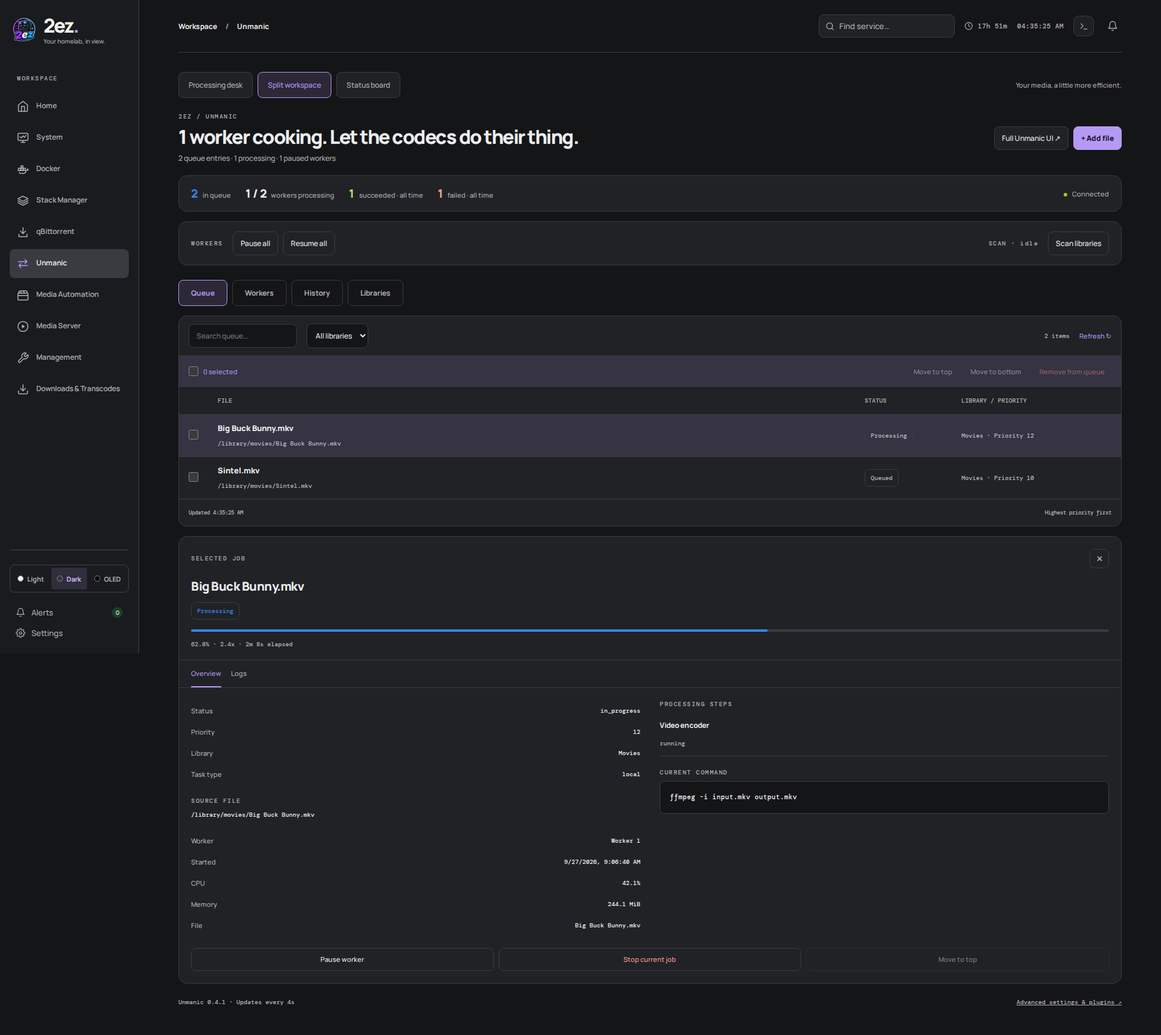
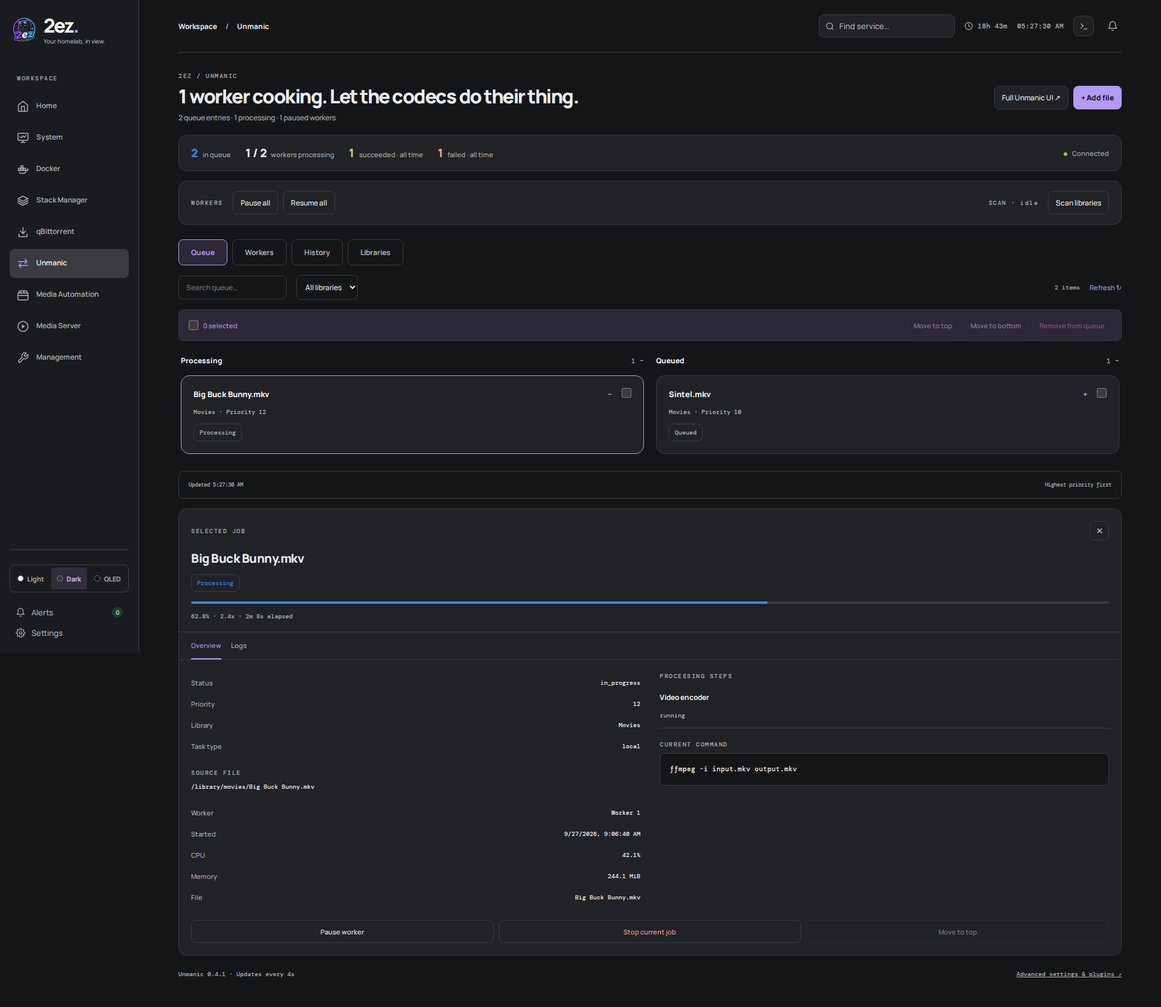
Combine Unmanic views and remove redundant downloads page

diff --git a/src/unmanic/UnmanicPage.jsx b/src/unmanic/UnmanicPage.jsx
@@ -1,18 +1,15 @@
 import { useEffect, useRef, useState } from 'react';
 import { duration } from '../qbittorrent/api';
-import { InspectorDrawer } from '../qbittorrent/TransferViews';
 import { date, encodingSpeed, filename, progress, unmanicRequest, workerState } from './api';
 import JobDetails from './JobDetails';
 import ActionDialog from './ActionDialog';
 import '../qbittorrent/qbittorrent.css';
 import './unmanic.css';
 
-const views = [['dense', 'Processing desk'], ['bottom', 'Split workspace'], ['cards', 'Status board']];
 const sections = [['queue', 'Queue'], ['workers', 'Workers'], ['history', 'History'], ['libraries', 'Libraries']];
 const pageSize = 25;
 const label = (item, kind) => kind === 'queue' ? filename(item.abspath) : kind === 'history' ? item.task_label : item.name;
 export default function UnmanicPage() {
-  const [layout, setLayout] = useState(() => { try { const saved = localStorage.getItem('2ez-unmanic-layout'); return views.some(([id]) => id === saved) ? saved : 'bottom'; } catch { return 'bottom'; } });
   const [section, setSection] = useState('queue');
   const [query, setQuery] = useState('');
   const [library, setLibrary] = useState('all');
@@ -67,10 +64,9 @@ export default function UnmanicPage() {
   const paused = workers.filter(worker => worker.paused).length;
   const headline = !snapshot ? 'Checking what’s cooking…' : active ? `${active} ${active === 1 ? 'worker' : 'workers'} cooking. Let the codecs do their thing.` : paused ? 'The workers are taking a breather.' : snapshot.queue.recordsTotal ? 'A little queue. A lot of potential.' : 'Nothing to squeeze. Even codecs need a day off.';
   function updateFilter(setter, value) { setter(value); setPage(0); setSelected([]); }
-  function switchSection(next) { setSection(next); setQuery(''); setLibrary('all'); setStatus('all'); setPage(0); setSelected([]); setInspected(null); }
-  function chooseView(next) { setLayout(next); setCollapsed({}); try { localStorage.setItem('2ez-unmanic-layout', next); } catch { /* View remains usable without storage. */ } }
+  function switchSection(next) { setSection(next); setCollapsed({}); setQuery(''); setLibrary('all'); setStatus('all'); setPage(0); setSelected([]); setInspected(null); }
   function closeDetails() { const button = [...document.querySelectorAll('[data-um-id]')].find(element => element.dataset.umId === String(inspected?.item.id)); setInspected(null); button?.focus(); }
-  function inspect(item) { if (layout === 'cards' && inspected?.item.id === item.id) closeDetails(); else setInspected({ kind: section, item }); }
+  function inspect(item) { if (inspected?.item.id === item.id) closeDetails(); else setInspected({ kind: section, item }); }
   function select(id, checked) { setSelected(previous => checked ? [...new Set([...previous, id])] : previous.filter(value => value !== id)); }
   async function mutate(endpoint, method, data, message) {
     setBusy(true); setActionError(''); setNotice('');
@@ -92,24 +88,22 @@ export default function UnmanicPage() {
     if (await mutate(endpoint, method, payload, message)) { setSelected([]); if (['removeQueue', 'removeHistory'].includes(operation.kind)) setInspected(null); }
   }
   const detailItem = inspected && (inspected.kind === 'workers' ? workers.find(item => item.id === inspected.item.id) : rows.find(item => item.id === inspected.item.id)) || inspected?.item;
-  const details = inspected && <JobDetails key={`${inspected.kind}-${inspected.item.id}`} kind={inspected.kind} item={detailItem} workers={workers} disabled={disabled || (inspected.kind === 'workers' && !workers.some(item => item.id === inspected.item.id))} onAction={action} onClose={closeDetails} layout={layout} />;
+  const details = inspected && <JobDetails key={`${inspected.kind}-${inspected.item.id}`} kind={inspected.kind} item={detailItem} workers={workers} disabled={disabled || (inspected.kind === 'workers' && !workers.some(item => item.id === inspected.item.id))} onAction={action} onClose={closeDetails} />;
   const jobState = item => section === 'workers' ? workerState(item) : section === 'history' ? item.task_success ? 'Succeeded' : 'Failed' : section === 'libraries' ? item.enable_scanner ? 'Scanning enabled' : 'Scanner disabled' : workers.some(w => w.current_task === item.id && !w.idle) ? 'Processing' : item.status === 'pending' ? 'Queued' : item.status;
   const groupNames = [...new Set(rows.map(jobState))];
-  const inCard = inspected && rows.some(item => item.id === inspected.item.id) && !collapsed[jobState(detailItem)];
-  const expandable = item => <button className="um-item-name" data-um-id={item.id} aria-expanded={inspected?.item.id === item.id} onClick={() => inspect(item)}>{label(item, section)}{layout === 'cards' && <span aria-hidden="true">{inspected?.item.id === item.id ? '−' : '+'}</span>}</button>;
+  const expandable = item => <button className="um-item-name" data-um-id={item.id} aria-expanded={inspected?.item.id === item.id} aria-controls={inspected?.item.id === item.id ? "um-selected-job" : undefined} onClick={() => inspect(item)}>{label(item, section)}<span aria-hidden="true">{inspected?.item.id === item.id ? '−' : '+'}</span></button>;
   const summary = item => section === 'queue' ? `${item.library_name || 'Unassigned library'} · Priority ${item.priority}` : section === 'history' ? `${date(item.finish_time)} · ${duration(item.finish_time - item.start_time)}` : section === 'libraries' ? item.path : item.current_file || 'No current job';
-  return <div className={`page-content qb-page um-page um-${layout}`}>
-    <div className="qb-layout-picker"><div role="group" aria-label="Unmanic layout">{views.map(([id, name]) => <button key={id} aria-pressed={layout === id} onClick={() => chooseView(id)}>{name}</button>)}</div><span>Your media, a little more efficient.</span></div>
+  return <div className="page-content qb-page um-page">
     <div className="qb-intro"><div><p className="eyebrow">2EZ / UNMANIC</p><h1>{error ? 'Lost touch with Unmanic. Trying again…' : headline}</h1><p>{snapshot ? `${snapshot.queue.recordsTotal} queue entries · ${active} processing · ${paused} paused workers` : 'Connecting to your media processor…'}</p></div><div className="qb-top-actions"><a className="qb-button" href="/unmanic/" target="_blank" rel="noreferrer">Full Unmanic UI ↗</a><button className="qb-button qb-primary" disabled={disabled} onClick={() => action('add')}>+ Add file</button></div></div>
     <div className="qb-stats"><div><strong className="qb-down">{snapshot?.queue.recordsTotal ?? '—'}</strong><span>in queue</span></div><div><strong>{active} / {workers.length}</strong><span>workers processing</span></div><div><strong className="qb-up">{snapshot?.history.successCount ?? '—'}</strong><span>succeeded · all time</span></div><div><strong className="qb-danger">{snapshot?.history.failedCount ?? '—'}</strong><span>failed · all time</span></div><span className="qb-connection"><i className={error ? 'qb-dot-error' : snapshot ? 'qb-dot-live' : ''} />{error ? 'Showing last update' : snapshot ? 'Connected' : 'Connecting'}</span></div>
     {error && <div className="qb-error" role="alert">{error} <button className="qb-text-button" onClick={() => refreshRef.current?.()}>Retry</button></div>}{actionError && !operation && <div className="qb-error" role="alert">{actionError}</div>}{notice && <div className="qb-notice" role="status">{notice}<button aria-label="Dismiss message" onClick={() => setNotice('')}>×</button></div>}
     <section className="qb-panel um-operations" aria-label="Processing controls"><div><span className="eyebrow">WORKERS</span><button className="qb-button" disabled={disabled || !workers.length || workers.every(w => w.paused)} onClick={() => mutate('workers/worker/pause/all', 'POST', {}, 'All workers paused.')}>Pause all</button><button className="qb-button" disabled={disabled || !paused} onClick={() => mutate('workers/worker/resume/all', 'POST', {}, 'All workers resumed.')}>Resume all</button></div><div><span className="eyebrow">SCAN · {scan?.state || '—'}</span>{scan?.current_library_name && <span className="um-meta">{scan.current_library_name}</span>}<button className="qb-button" disabled={disabled || !scan?.can_rescan} onClick={() => action('scan')}>Scan libraries</button>{scan?.can_pause && <button className="qb-button" disabled={disabled} onClick={() => mutate('pending/rescan/pause', 'POST', {}, 'Scan paused.')}>Pause scan</button>}{scan?.can_resume && <button className="qb-button" disabled={disabled} onClick={() => mutate('pending/rescan/resume', 'POST', {}, 'Scan resumed.')}>Resume scan</button>}{scan?.can_cancel && <button className="qb-button qb-danger" disabled={disabled} onClick={() => action('cancelScan')}>Cancel scan</button>}</div></section>
     <nav className="um-sections" aria-label="Unmanic sections">{sections.map(([id, name]) => <button key={id} className={section === id ? 'active' : ''} aria-pressed={section === id} onClick={() => switchSection(id)}>{name}</button>)}</nav>
-    <section className={`qb-panel um-list ${layout === 'cards' ? 'um-card-list' : ''}`}><div className="qb-list-head"><label className="qb-search"><input type="search" aria-label="Search Unmanic items" placeholder={`Search ${section}…`} value={query} onChange={event => updateFilter(setQuery, event.target.value)} /></label>{section === 'queue' && <select aria-label="Filter library" value={library} onChange={event => updateFilter(setLibrary, event.target.value)}><option value="all">All libraries</option>{libraries.map(item => <option key={item.id} value={item.id}>{item.name}</option>)}</select>}{section === 'history' && <select aria-label="Filter result" value={status} onChange={event => updateFilter(setStatus, event.target.value)}><option value="all">All results</option><option value="success">Succeeded</option><option value="failed">Failed</option></select>}<span>{loaded ? `${snapshot.total} items` : 'Loading…'}</span><button className="qb-text-button" onClick={() => refreshRef.current?.()}>Refresh ↻</button></div>
+    <section className="qb-panel um-list um-card-list"><div className="qb-list-head"><label className="qb-search"><input type="search" aria-label="Search Unmanic items" placeholder={`Search ${section}…`} value={query} onChange={event => updateFilter(setQuery, event.target.value)} /></label>{section === 'queue' && <select aria-label="Filter library" value={library} onChange={event => updateFilter(setLibrary, event.target.value)}><option value="all">All libraries</option>{libraries.map(item => <option key={item.id} value={item.id}>{item.name}</option>)}</select>}{section === 'history' && <select aria-label="Filter result" value={status} onChange={event => updateFilter(setStatus, event.target.value)}><option value="all">All results</option><option value="success">Succeeded</option><option value="failed">Failed</option></select>}<span>{loaded ? `${snapshot.total} items` : 'Loading…'}</span><button className="qb-text-button" onClick={() => refreshRef.current?.()}>Refresh ↻</button></div>
     {['queue', 'history'].includes(section) && <div className="qb-bulk"><label className="um-check"><input type="checkbox" aria-label="Select page" checked={rows.length > 0 && rows.every(item => selected.includes(item.id))} disabled={!rows.length} onChange={event => setSelected(event.target.checked ? rows.map(item => item.id) : [])} />{selectedItems.length} selected</label>{section === 'queue' ? <><button className="qb-button" disabled={disabled || !selectedItems.length} onClick={() => action('top', selectedItems)}>Move to top</button><button className="qb-button" disabled={disabled || !selectedItems.length} onClick={() => action('bottom', selectedItems)}>Move to bottom</button></> : <button className="qb-button" disabled={disabled || !selectedItems.length} onClick={() => action('reprocess', selectedItems)}>Reprocess</button>}<button className="qb-button qb-danger" disabled={disabled || !selectedItems.length} onClick={() => action(section === 'queue' ? 'removeQueue' : 'removeHistory', selectedItems)}>Remove {section === 'queue' ? 'from queue' : 'records'}</button></div>}
-    {!loaded ? <p className="qb-empty">{error ? 'Waiting to reconnect…' : 'Loading Unmanic…'}</p> : !rows.length ? <p className="qb-empty">{query || library !== 'all' || status !== 'all' ? 'No items match these filters.' : section === 'queue' ? 'The queue is clear. Add a file or scan your libraries.' : section === 'history' ? 'No completed jobs yet.' : section === 'workers' ? 'No workers configured. Open Unmanic settings to add workers.' : 'No libraries configured. Open Unmanic settings to add a library.'}</p> : layout === 'cards' ? <div className="um-board">{groupNames.map(group => <section key={group}><button className="um-group-toggle" aria-expanded={!collapsed[group]} onClick={() => setCollapsed(previous => ({ ...previous, [group]: !previous[group] }))}><strong>{group}</strong><span>{rows.filter(item => jobState(item) === group).length} {collapsed[group] ? '+' : '−'}</span></button><div hidden={Boolean(collapsed[group])}>{rows.filter(item => jobState(item) === group).map(item => <article key={item.id} className={`um-card ${inspected?.item.id === item.id ? 'expanded' : ''}`}><div className="um-card-head">{expandable(item)}{['queue', 'history'].includes(section) && <input type="checkbox" aria-label={`Select ${label(item, section)}`} checked={selected.includes(item.id)} onChange={event => select(item.id, event.target.checked)} />}</div><p className="um-meta">{summary(item)}</p><span className={`um-state ${jobState(item) === 'Failed' ? 'um-failed' : ''}`}>{jobState(item)}</span>{section === 'workers' && !item.idle && <><div className="um-progress"><i style={{ width: `${Math.max(0, Math.min(100, progress(item) || 0))}%` }} /></div><p className="um-meta">{progress(item) === null ? 'Progress unavailable' : `${progress(item).toFixed(1)}%`} · {encodingSpeed(item)}</p></>}{inspected?.item.id === item.id && details}</article>)}</div></section>)}</div> : <div className="um-table-scroll"><table className="um-table"><thead><tr>{['queue', 'history'].includes(section) && <th aria-label="Selection" />}<th>{section === 'workers' ? 'Worker' : section === 'libraries' ? 'Library' : 'File'}</th><th>Status</th><th>{section === 'queue' ? 'Library / priority' : section === 'history' ? 'Finished / duration' : section === 'workers' ? 'Progress / speed' : 'Path'}</th></tr></thead><tbody>{rows.map(item => <tr key={item.id} className={inspected?.item.id === item.id ? 'inspected' : ''}>{['queue', 'history'].includes(section) && <td><input type="checkbox" aria-label={`Select ${label(item, section)}`} checked={selected.includes(item.id)} onChange={event => select(item.id, event.target.checked)} /></td>}<td>{expandable(item)}{section === 'queue' && <p className="um-meta um-path-preview">{item.abspath}</p>}{section === 'workers' && <p className="um-meta">{item.current_file || 'No current job'}</p>}</td><td><span className={`um-state ${jobState(item) === 'Failed' ? 'um-failed' : ''}`}>{jobState(item)}</span></td><td className="um-meta">{section === 'workers' ? item.idle ? '—' : `${progress(item) === null ? '—' : progress(item).toFixed(1) + '%'} · ${encodingSpeed(item)}` : summary(item)}</td></tr>)}</tbody></table></div>}
+    {!loaded ? <p className="qb-empty">{error ? 'Waiting to reconnect…' : 'Loading Unmanic…'}</p> : !rows.length ? <p className="qb-empty">{query || library !== 'all' || status !== 'all' ? 'No items match these filters.' : section === 'queue' ? 'The queue is clear. Add a file or scan your libraries.' : section === 'history' ? 'No completed jobs yet.' : section === 'workers' ? 'No workers configured. Open Unmanic settings to add workers.' : 'No libraries configured. Open Unmanic settings to add a library.'}</p> : <div className="um-board">{groupNames.map(group => <section key={group}><button className="um-group-toggle" aria-expanded={!collapsed[group]} onClick={() => setCollapsed(previous => ({ ...previous, [group]: !previous[group] }))}><strong>{group}</strong><span>{rows.filter(item => jobState(item) === group).length} {collapsed[group] ? '+' : '−'}</span></button><div hidden={Boolean(collapsed[group])}>{rows.filter(item => jobState(item) === group).map(item => <article key={item.id} className={`um-card ${inspected?.item.id === item.id ? 'expanded' : ''}`}><div className="um-card-head">{expandable(item)}{['queue', 'history'].includes(section) && <input type="checkbox" aria-label={`Select ${label(item, section)}`} checked={selected.includes(item.id)} onChange={event => select(item.id, event.target.checked)} />}</div><p className="um-meta">{summary(item)}</p><span className={`um-state ${jobState(item) === 'Failed' ? 'um-failed' : ''}`}>{jobState(item)}</span>{section === 'workers' && !item.idle && <><div className="um-progress"><i style={{ width: `${Math.max(0, Math.min(100, progress(item) || 0))}%` }} /></div><p className="um-meta">{progress(item) === null ? 'Progress unavailable' : `${progress(item).toFixed(1)}%`} · {encodingSpeed(item)}</p></>}</article>)}</div></section>)}</div>}
     <div className="qb-list-foot"><span>{snapshot ? `Updated ${new Date(snapshot.updated).toLocaleTimeString()}` : 'Waiting for first update'}</span>{loaded && ['queue', 'history'].includes(section) && snapshot.total > pageSize && <div className="qb-pagination"><button disabled={disabled || page === 0} onClick={() => { setPage(value => value - 1); setSelected([]); }}>Previous</button><span>{page + 1} / {Math.ceil(snapshot.total / pageSize)}</span><button disabled={disabled || (page + 1) * pageSize >= snapshot.total} onClick={() => { setPage(value => value + 1); setSelected([]); }}>Next</button></div>}<span>{section === 'queue' ? 'Highest priority first' : section === 'history' ? 'Most recent first' : 'Live state'}</span></div></section>
-    {layout === 'dense' && details ? <InspectorDrawer label="Selected Unmanic item" onClose={closeDetails}>{details}</InspectorDrawer> : layout === 'bottom' ? details : !inCard && details ? <div className="um-hidden-detail"><p className="um-meta">Selected item is outside this page or its group is closed.</p><button className="qb-text-button" onClick={() => chooseView('bottom')}>View selected details</button><button className="qb-text-button" onClick={closeDetails}>Close details</button></div> : null}
+    {details}
     <footer className="qb-footer"><span>Unmanic {snapshot?.version || ''} · Updates every 4s</span><a href="/unmanic/" target="_blank" rel="noreferrer">Advanced settings & plugins ↗</a></footer>
     {operation && <ActionDialog key={operation.kind} operation={operation} libraries={libraries} busy={busy} error={actionError} onClose={() => { if (!busy) setOperation(null); }} onSubmit={submit} />}
   </div>;

diff --git a/src/App.jsx b/src/App.jsx
@@ -2865,8 +2865,7 @@ const NAV_ITEMS = [
     icon: <svg width="20" height="20" viewBox="0 0 24 24" fill="none" stroke="currentColor" strokeWidth="1.8" strokeLinecap="round" strokeLinejoin="round"><circle cx="12" cy="12" r="10"/><polygon points="10 8 16 12 10 16 10 8" fill="currentColor" stroke="none"/></svg> },
   { id: "mgmt",       label: "Management",             shortLabel: "Manage",    abbr: "MG", col: "#EF4444",
     icon: <svg width="20" height="20" viewBox="0 0 24 24" fill="none" stroke="currentColor" strokeWidth="1.8" strokeLinecap="round" strokeLinejoin="round"><path d="M14.7 6.3a1 1 0 0 0 0 1.4l1.6 1.6a1 1 0 0 0 1.4 0l3.77-3.77a6 6 0 0 1-7.94 7.94l-6.91 6.91a2.12 2.12 0 0 1-3-3l6.91-6.91a6 6 0 0 1 7.94-7.94l-3.76 3.76z"/></svg> },
-  { id: "downloads",  label: "Downloads & Transcodes", shortLabel: "Downloads", abbr: "DL", col: "#2979FF",
-    icon: <svg width="20" height="20" viewBox="0 0 24 24" fill="none" stroke="currentColor" strokeWidth="1.8" strokeLinecap="round" strokeLinejoin="round"><path d="M21 15v4a2 2 0 0 1-2 2H5a2 2 0 0 1-2-2v-4"/><polyline points="7 10 12 15 17 10"/><line x1="12" y1="15" x2="12" y2="3"/></svg> },
+
 ];
 
 function NavSidebar({ isOpen, activePage, onNavigate, onClose, themeColors, onThemeChange, alerts, onResetLayout }) {
@@ -2956,8 +2955,8 @@ const SettingsCogIcon = () => (
 
 function BottomTabBar({ activePage, onNavigate, settingsOpen, onSettingsToggle }) {
   const [moreOpen, setMoreOpen] = useState(false);
-  const primary = ["home", "main", "media-srv", "downloads"];
-  const tabs = NAV_ITEMS.filter(item => primary.includes(item.id));
+  const primary = ["home", "main", "media-srv", "qbittorrent"];
+  const tabs = primary.map(id => NAV_ITEMS.find(item => item.id === id));
   const navigate = page => { setMoreOpen(false); onNavigate(page); };
   return <>
     {moreOpen && <div className="mobile-more" id="mobile-more" onKeyDown={event => { if (event.key === "Escape") { setMoreOpen(false); document.getElementById("mobile-more-toggle")?.focus(); } }}>
@@ -4021,30 +4020,6 @@ function ManagementPage({ onMenuToggle, onNavigate, bellProps }) {
   );
 }
 
-// ─── DOWNLOADS & TRANSCODES PAGE ─────────────────────────────────
-function DownloadsPage({ onMenuToggle, onNavigate, bellProps }) {
-  const defaultIds = ["qbittorrent", "unmanic"];
-  const [mobileOrder, setMobileOrder] = useMobileOrder("downloads", defaultIds);
-  const [editOpen, setEditOpen] = useState(false);
-  const items = [
-    { id: "qbittorrent", node: <QBittorrentWidget /> },
-    { id: "unmanic",     node: <UnmanicWidget /> },
-  ];
-  const modalItems = defaultIds.map(id => ({ id, label: SVC[id]?.name ?? id }));
-  const defaultSizes = { qbittorrent: "large", unmanic: "large" };
-  const defaultPositions = { qbittorrent: {col:1,row:1}, unmanic: {col:3,row:1} };
-  return (
-    <div className="shell downloads-page">
-      <PageHeader title="Downloads" onMenuToggle={onMenuToggle} onNavigate={onNavigate} bellProps={bellProps} />
-      <div className="page-content">
-        <PageIntro title="On the way." description="Follow active downloads and the files being prepared for your library." eyebrow="2EZ / DOWNLOADS"><button className="surface-button" onClick={() => setEditOpen(true)}><PencilIcon />Arrange cards</button></PageIntro>
-        <DraggableGrid pageKey="downloads" items={items} resizable={new Set(["qbittorrent","unmanic"])} defaultSizes={defaultSizes} defaultPositions={defaultPositions} mobileOrder={mobileOrder} onReorder={setMobileOrder} />
-      </div>
-      {editOpen && <LayoutEditModal items={modalItems} order={mobileOrder} onSave={o => { setMobileOrder(o); setEditOpen(false); }} onCancel={() => setEditOpen(false)} />}
-    </div>
-  );
-}
-
 // ─── TERMINAL ────────────────────────────────────────────────────
 // xterm.js front-end wired to the /terminal WebSocket (node-pty shell).
 const TERM_THEME = {
@@ -4886,7 +4861,7 @@ function HomeOverview({ onNavigate }) {
         <section className="overview-panel overview-transfer">
           <div className="overview-panel-head"><div><p className="eyebrow">ON THE WIRE</p><h2>Traffic through your lab</h2></div><span className="transfer-icon" aria-hidden="true">↓↑</span></div>
           <div className="overview-transfer-values"><div><span>LAN receiving</span><strong>{metricStatus.network === "ready" && network?.lan ? fmt.speed(network.lan.rx) : "—"}</strong></div><div><span>LAN sending</span><strong>{metricStatus.network === "ready" && network?.lan ? fmt.speed(network.lan.tx) : "—"}</strong></div></div>
-          <button className="overview-text-button" onClick={() => onNavigate("downloads")}>Open downloads & transcodes <span aria-hidden="true">↗</span></button>
+          <div className="overview-media-links"><button className="overview-text-button" onClick={() => onNavigate("qbittorrent")}>Open qBittorrent <span aria-hidden="true">↗</span></button><button className="overview-text-button" onClick={() => onNavigate("unmanic")}>Open Unmanic <span aria-hidden="true">↗</span></button></div>
         </section>
         <HomeNetworkWidget />
       </div>
@@ -5190,7 +5165,6 @@ function AppInner() {
       {activePage === "media-auto" && <MediaAutomationPage onMenuToggle={toggleMenu} onNavigate={navigate} bellProps={bellProps} />}
       {activePage === "media-srv"  && <MediaServerPage     onMenuToggle={toggleMenu} onNavigate={navigate} bellProps={bellProps} />}
       {activePage === "mgmt"       && <ManagementPage      onMenuToggle={toggleMenu} onNavigate={navigate} bellProps={bellProps} />}
-      {activePage === "downloads"  && <DownloadsPage        onMenuToggle={toggleMenu} onNavigate={navigate} bellProps={bellProps} />}
 
       <BottomTabBar
         activePage={activePage}

diff --git a/src/unmanic/unmanic.css b/src/unmanic/unmanic.css
@@ -7,17 +7,8 @@
 .um-meta { font: 10px/1.8 var(--mono); color: var(--text-dim); overflow-wrap: anywhere; }
 .um-check { display: flex; align-items: center; gap: 8px; margin-right: auto; font: 11px var(--font); color: var(--accent); }
 .um-page input[type=checkbox] { width: 16px; height: 16px; accent-color: var(--accent); flex-shrink: 0; }
-.um-table-scroll { overflow-x: auto; }
-.um-table { width: 100%; border-collapse: collapse; table-layout: fixed; }
-.um-table th { text-align: left; color: var(--text-dim); font: 10px var(--mono); padding: 16px; text-transform: uppercase; }
-.um-table th[aria-label=Selection] { width: 48px; }
-.um-table th:nth-last-child(2) { width: 160px; }
-.um-table th:last-child { width: 280px; }
-.um-table td { padding: 16px; border-top: 1px solid var(--card-border); vertical-align: middle; }
-.um-table tr.inspected { background: var(--accent-dim); }
 .um-item-name { display: flex; justify-content: space-between; align-items: flex-start; gap: 12px; width: 100%; font: 700 13px/1.6 var(--font); color: var(--text); background: transparent; border: 0; padding: 0; text-align: left; cursor: pointer; overflow-wrap: anywhere; min-width: 0; }
 .um-item-name > span { color: var(--accent); flex-shrink: 0; }
-.um-path-preview { margin-top: 6px; white-space: nowrap; overflow: hidden; text-overflow: ellipsis; }
 .um-state { display: inline-flex; align-items: center; font: 10px var(--mono); border: 1px solid var(--card-border); border-radius: 8px; padding: 7px 9px; color: var(--text-dim); overflow-wrap: anywhere; }
 .um-processing { color: var(--color-blue); }
 .um-paused { color: var(--warning-ink); }
@@ -35,14 +26,11 @@
 .um-runner { padding: 12px 0; border-bottom: 1px solid var(--card-border); }
 .um-runner strong { display: block; font: 600 12px var(--font); margin-bottom: 8px; }
 .um-runner span { font: 10px var(--mono); color: var(--text-dim); }
-.um-bottom .um-overview { display: grid; grid-template-columns: repeat(2, minmax(0,1fr)); gap: 32px; }
-.um-bottom .um-table-scroll { max-height: 480px; overflow: auto; }
-.um-bottom .um-table thead { position: sticky; top: 0; background: var(--card); z-index: 1; }
-.um-bottom .um-table td { padding-top: 12px; padding-bottom: 12px; }
+.um-overview { display: grid; grid-template-columns: repeat(2, minmax(0,1fr)); gap: 32px; }
 .um-card-list { background: transparent; border: 0; overflow: visible; }
 .um-card-list .qb-list-head { padding: 0 0 16px; }
 .um-card-list .qb-bulk, .um-card-list .qb-list-foot { border: 1px solid var(--card-border); border-radius: 8px; }
-.um-board { display: grid; grid-template-columns: repeat(auto-fit, minmax(min(100%, 360px), 1fr)); gap: 20px; margin: 8px 0 16px; align-items: start; }
+.um-board { max-height: 480px; overflow-y: auto; padding: 0 4px; display: grid; grid-template-columns: repeat(auto-fit, minmax(min(100%, 360px), 1fr)); gap: 20px; margin: 8px 0 16px; align-items: start; }
 .um-board > section { min-width: 0; }
 .um-group-toggle { display: flex; justify-content: space-between; align-items: center; gap: 12px; width: 100%; background: transparent; border: 0; font: 12px var(--font); color: var(--text); padding: 16px 0; cursor: pointer; }
 .um-group-toggle span { color: var(--text-dim); font: 11px var(--mono); }
@@ -50,12 +38,7 @@
 .um-card.expanded { border-color: var(--accent); }
 .um-card-head { display: flex; align-items: flex-start; gap: 16px; }
 .um-card > .um-meta { margin: 10px 0; }
-.um-card .um-detail { border: 0; border-top: 1px solid var(--card-border); border-radius: 0; }
-.um-card .qb-detail-heading, .um-card .qb-details-body, .um-card .um-detail-title, .um-card .qb-detail-actions { padding-left: 0; padding-right: 0; }
-.um-card .um-detail-title h2 { display: none; }
-.um-card .qb-tabs { padding: 0; }
-.um-hidden-detail { margin-top: 16px; border: 1px solid var(--card-border); border-radius: 8px; padding: 16px; display: flex; gap: 16px; flex-wrap: wrap; align-items: center; }
 .um-page a.qb-button { text-decoration: none; }
-.um-page .qb-drawer .um-detail { margin: 0; }
-@media(max-width:1000px) { .um-table th:last-child { width: 200px; } .um-table th:nth-last-child(2) { width: 132px; } .um-operations { align-items: flex-start; flex-direction: column; } }
-@media(max-width:700px) { .um-bottom .um-overview { grid-template-columns: minmax(0,1fr); gap: 24px; } .um-table th:last-child, .um-table td:last-child { display: none; } .um-table th:nth-last-child(2) { width: 115px; } .um-table th, .um-table td { padding: 12px 8px; } .um-table th[aria-label=Selection] { width: 32px; } .um-page .qb-list-head { flex-wrap: wrap; gap: 12px; } .um-page .qb-list-head select { flex: 1; } .um-page .qb-bulk .um-check { flex-basis: 100%; } .um-sections button { padding: 12px; } .um-operations { padding: 16px; } }
+
+@media(max-width:1000px) { .um-operations { align-items: flex-start; flex-direction: column; } }
+@media(max-width:700px) { .um-overview { grid-template-columns: minmax(0,1fr); gap: 24px; } .um-page .qb-list-head { flex-wrap: wrap; gap: 12px; } .um-page .qb-list-head select { flex: 1; } .um-page .qb-bulk .um-check { flex-basis: 100%; } .um-sections button { padding: 12px; } .um-operations { padding: 16px; } }

diff --git a/src/unmanic/JobDetails.jsx b/src/unmanic/JobDetails.jsx
@@ -2,13 +2,13 @@ import { useEffect, useRef, useState } from 'react';
 import { bytes, duration } from '../qbittorrent/api';
 import { date, encodingSpeed, filename, logText, number, progress, unmanicRequest, workerState } from './api';
 
-export default function JobDetails({ item, kind, workers, disabled, onAction, onClose, layout }) {
+export default function JobDetails({ item, kind, workers, disabled, onAction, onClose }) {
   const [tab, setTab] = useState('Overview');
   const [historyLog, setHistoryLog] = useState(null);
   const [error, setError] = useState('');
   const panel = useRef(null);
   const worker = kind === 'workers' ? workers.find(w => w.id === item.id) : kind === 'queue' ? workers.find(w => w.current_task === item.id) : null;
-  useEffect(() => { if (layout === 'bottom' && matchMedia('(max-width: 800px)').matches) panel.current?.scrollIntoView({ block: 'start' }); }, [layout]);
+  useEffect(() => { if (matchMedia('(max-width: 800px)').matches) panel.current?.scrollIntoView({ block: 'start' }); }, []);
   useEffect(() => {
     if (kind !== 'history' || tab !== 'Logs') return;
     const controller = new AbortController();

diff --git a/src/2ez.css b/src/2ez.css
@@ -357,7 +357,6 @@ button { touch-action: manipulation; }
   .service-activity.activity-mgmt .live-svc-card { display: flex; }
   .live-stat { padding: 0 12px; }
   .live-stat-val { font-size: 21px; }
-  .downloads-page .grid { grid-template-columns: 1fr; }
   .dk-toolbar { align-items: flex-start; }
   .dk-controls { width: 100%; }
   .dk-head { display: none; }
@@ -371,7 +370,6 @@ button { touch-action: manipulation; }
 }
 .live-stat { box-shadow: none; backdrop-filter: none; }
 .system-page { --row-h: 168px; }
-.downloads-page { --row-h: 112px; }
 .metric-empty { color: var(--text-dim); font-size: 12px; line-height: 1.7; padding: 16px 0; }
 .dot-live { background: var(--color-live); }
 .dk-item.open { border-color: var(--card-border); }
@@ -389,3 +387,5 @@ button { touch-action: manipulation; }
 .nav-footer .appearance-toggle { margin-bottom: 16px; }
 .nav-footer .appearance-toggle button[aria-pressed="true"] { color: #D0BBFF; }
 .theme-tile:hover { border-color: var(--card-border); }
+
+.overview-media-links { display: flex; flex-wrap: wrap; gap: 8px 24px; }

diff --git a/docs/unmanic.md b/docs/unmanic.md
@@ -2,7 +2,7 @@
 
 Open **Unmanic** in the sidebar, or click its existing dashboard widget. The native page keeps the dashboard typography and Light, Dark, and OLED themes.
 
-Three saved layouts are available: **Processing desk** with a details drawer, **Split workspace** with details below the list, and **Status board** with expandable groups and jobs. Queue, Workers, History, and Libraries share these layouts. Queue and history use server-side search and 25-item pagination; history can be filtered by result and the queue by library.
+One combined workspace uses collapsible status groups and cards above a full-width selected-job details panel. Clicking the selected card again closes its details. Group controls collapse the cards independently. Queue, Workers, History, and Libraries share this view; there is no layout selector. The former Downloads & Transcodes page has been removed, with direct links to qBittorrent and Unmanic instead. Queue and history use server-side search and 25-item pagination; history can be filtered by result and the queue by library.
 
 Workers show their current file, progress, encoding speed when reported, resource usage, plugin steps, command, and recent log output. Completed jobs expose processing times and saved logs. Counts and state refresh every four seconds. Logs are rendered as text, including any HTML supplied by Unmanic.
 
@@ -23,4 +23,4 @@ Implemented against the installed Unmanic **0.4.1~1c324b8** API, including `pend
 - `node --test tests/*.test.js`
 - `node tests/unmanic.browser.mjs` against Vite (defaults to port 5173).
 
-The browser script accepts `DASHBOARD_TEST_URL`, `PLAYWRIGHT_MODULE`, and `CHROMIUM_PATH`. It intercepts every native Unmanic request, including all writes, and checks layouts, confirmations, worker/queue/scan controls, logs, filters, pagination, failure and empty states, layout persistence, native navigation, and overflow at 320–1920px across all themes. Preview screenshots use fictional sample jobs. Live verification must use GET and the read-only POST endpoints only, preserving worker and queue state.
+The browser script accepts `DASHBOARD_TEST_URL`, `PLAYWRIGHT_MODULE`, and `CHROMIUM_PATH`. It intercepts every native Unmanic request, including all writes, and checks the combined workspace, confirmations, worker/queue/scan controls, logs, filters, pagination, failure and empty states, legacy layout preferences, native navigation, and overflow at 320–1920px across all themes. Preview screenshots use fictional sample jobs. Live verification must use GET and the read-only POST endpoints only, preserving worker and queue state.
